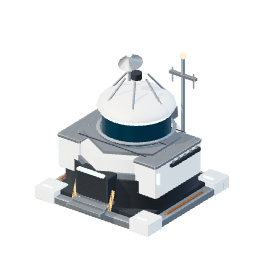
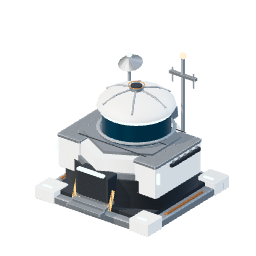
fix(3a-materials): 石墨钢板改用铆接面板（MetalPlates001）；基站穹顶拱肋贴球面、顶部排气口

Changed region(s): [[0.4062, 0.25, 0.6562, 0.4062], [0.625, 0.4062, 0.6562, 0.4375], [0.5, 0.4375, 0.5312, 0.4688]]

diff --git a/client-web/src/features/planet-map/three/industrial-models.ts b/client-web/src/features/planet-map/three/industrial-models.ts
@@ -541,12 +541,18 @@ export class IndustrialModels {
     this.ring(group, 'alloy', 0.235, 0.56, 0, -0.045);
     this.part(group, 'dome', armor, [0.49, 0.28, 0.49], [0, 0.745, -0.045]);
     this.ring(group, light, 0.22, 0.72, 0, -0.045);
-    // 穹顶肋条：从穹顶基部到顶心各 1 根细管，贴着球面走（俯视是放射状，侧面是拱肋）。
+    // 穹顶肋条：沿椭球面（a=.245 / c=.14，中心 y=.745）分两段从基部走到顶心，
+    // 俯视是放射状拱肋，侧面读得出穹顶分片（之前的单段直管会埋进球面，只剩几截虚线）。
+    const domeY = (r: number) => 0.745 + 0.14 * Math.sqrt(Math.max(0, 1 - (r / 0.245) ** 2)) + 0.004;
     for (let i = 0; i < 6; i++) {
-      const a = i * Math.PI / 3;
-      this.pipe(group, 'alloy', [Math.cos(a) * 0.235, 0.755, Math.sin(a) * 0.235 - 0.045], [Math.cos(a) * 0.075, 0.995, Math.sin(a) * 0.075 - 0.045], 0.007);
+      const a = i * Math.PI / 3, dx = Math.cos(a), dz = Math.sin(a);
+      this.pipe(group, 'alloy', [dx * 0.225, domeY(0.225), dz * 0.225 - 0.045], [dx * 0.135, domeY(0.135), dz * 0.135 - 0.045], 0.007);
+      this.pipe(group, 'alloy', [dx * 0.135, domeY(0.135), dz * 0.135 - 0.045], [dx * 0.045, domeY(0.045), dz * 0.045 - 0.045], 0.007);
     }
-    this.part(group, 'cylinder', 'graphite', [0.07, 0.05, 0.07], [0, 1.0, -0.045]);
+    // 穹顶顶部排气口：合金短筒 + 石墨格栅（不再是「一个黑洞」）。
+    this.part(group, 'cylinder', 'alloy', [0.09, 0.035, 0.09], [0, 0.888, -0.045]);
+    this.part(group, 'cylinder', 'graphite', [0.07, 0.045, 0.07], [0, 0.895, -0.045]);
+    this.ring(group, 'copper', 0.05, 0.918, 0, -0.045);
     // 两侧设备翼：装甲壳 + 通风格栅 + 螺栓排。
     for (const x of [-0.29, 0.29]) {
       this.box(group, armor, [0.17, 0.27, 0.47], [x, 0.36, 0.025]);

diff --git a/client-web/src/features/planet-map/three/industrial-materials.ts b/client-web/src/features/planet-map/three/industrial-materials.ts
@@ -20,7 +20,7 @@ const ROOT = '/assets/textures/materials/';
 const MEAN_ALBEDO: Record<PbrFamily, string> = {
   ceramic: '#c2e3e8',
   alloy: '#848b92',
-  graphite: '#81878d',
+  graphite: '#80858c',
   plate: '#767c7e',
   rubber: '#1a1c1d',
   plastic: '#eeeae9',

diff --git a/client-web/public/assets/textures/materials/THIRD_PARTY.md b/client-web/public/assets/textures/materials/THIRD_PARTY.md
@@ -7,7 +7,7 @@
 | --- | --- | --- | --- |
 | `painted_metal-*` | Paint004 | https://ambientcg.com/view?id=Paint004 | 白色涂装金属面板（陶瓷族，己方主装甲） |
 | `brushed_metal-*` | Metal010 | https://ambientcg.com/view?id=Metal010 | 拉丝钛（结构件、支架、炮管） |
-| `plate_metal-*` | MetalPlates003 | https://ambientcg.com/view?id=MetalPlates003 | 石墨色铆接钢板（底座、机架、暗部） |
+| `plate_metal-*` | MetalPlates001 | https://ambientcg.com/view?id=MetalPlates001 | 铆接钢板（底座、机架、暗部；1 格 1 块板） |
 | `diamond_plate-*` | DiamondPlate004 | https://ambientcg.com/view?id=DiamondPlate004 | 花纹钢板（地基、踏板、平台） |
 | `rubber-*` | Rubber001 | https://ambientcg.com/view?id=Rubber001 | 橡胶（传送带带面、轮子） |
 | `plastic-*` | Plastic013A | https://ambientcg.com/view?id=Plastic013A | 哑光塑料（线槽、按钮座、非金属小件） |
